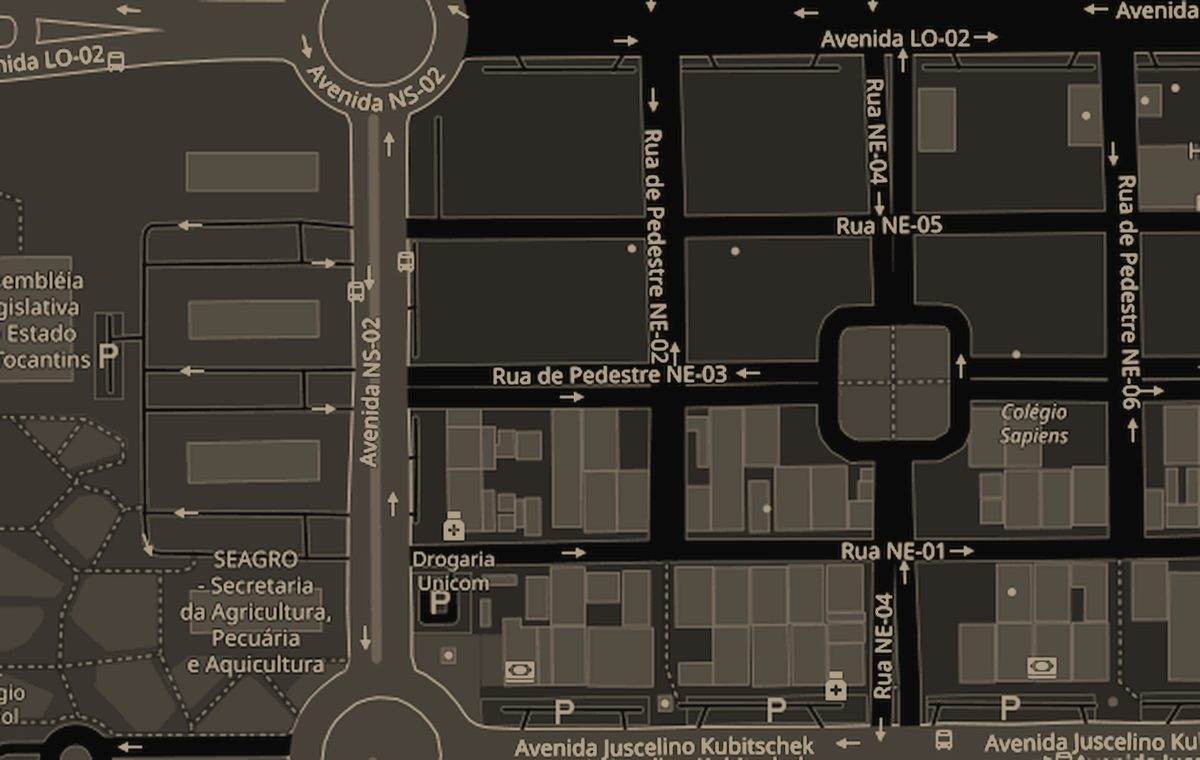
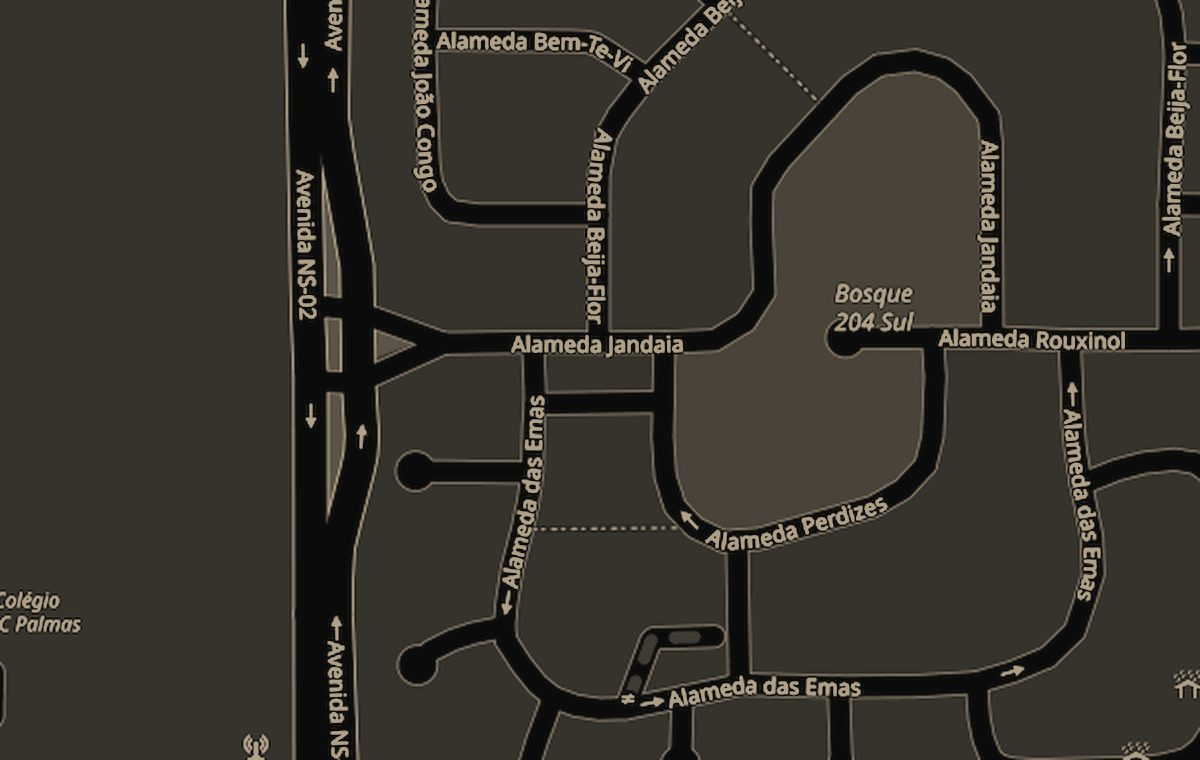
feat(local): endereco novo do Stewer (Conciso, 204 Sul), mapa redesenhado e numeros atualizados
Claude-Session: https://claude.ai/code/session_01SHfwDAUNqnuQJQhvSaj3Sw

diff --git a/src/components/atelie/MapaDoAtelie.tsx b/src/components/atelie/MapaDoAtelie.tsx
@@ -1,5 +1,5 @@
 /**
- * Onde o Stewer atende: o mapa da Boss House nas cores do app, com o S da marca marcando
+ * Onde o Stewer atende: o mapa do studio nas cores do app, com o S da marca marcando
  * o endereco e um pulso discreto em volta (uma unica animacao, que para para quem pede
  * menos movimento). Tocar no mapa abre o app de mapas do aparelho com a rota.
  *
@@ -87,7 +87,7 @@ export function MapaDoAtelie() {
             style={StyleSheet.absoluteFill}
             contentFit="cover"
             transition={250}
-            accessibilityLabel="Mapa das ruas em volta da Boss House, no Plano Diretor Norte"
+            accessibilityLabel={`Mapa das ruas em volta do ${LOCAL.nome}, na 204 Sul`}
           />
           {/* escurece as bordas para o mapa assentar no fundo da tela */}
           <LinearGradient
@@ -112,7 +112,7 @@ export function MapaDoAtelie() {
           />
           <Pino />
           <View className="absolute left-3 top-3 rounded-[3px] bg-fundo/80 px-3 py-[6px]">
-            <Text className="font-sans-medium text-ui-xs text-texto">Palmas, Tocantins</Text>
+            <Text className="font-sans-medium text-ui-xs text-texto">{LOCAL.regiao}</Text>
           </View>
           <Text
             className="absolute bottom-2 right-3 rounded-[2px] bg-fundo/80 px-[6px] py-[2px] font-sans text-texto-2"
@@ -125,6 +125,7 @@ export function MapaDoAtelie() {
 
       <View className="mt-6 gap-1">
         <Text className="font-display text-ds-24 text-texto">{LOCAL.nome}</Text>
+        <Text className="font-sans-medium text-ui-sm text-latao">{LOCAL.descricao}</Text>
         <Paragrafo>{LOCAL.endereco}</Paragrafo>
         <Paragrafo className="text-texto-3">{LOCAL.horario}</Paragrafo>
       </View>

diff --git a/src/content/atelie.ts b/src/content/atelie.ts
@@ -33,7 +33,7 @@ export const FOTOS = {
 export const PORTFOLIO: FotoAtelie[] = [
   {
     fonte: require('../../assets/images/atelie/corte-4.jpg'),
-    descricao: 'Stewer finalizando um corte na Boss House',
+    descricao: 'Stewer finalizando um corte',
     proporcao: 909 / 1200,
   },
   {
@@ -76,18 +76,27 @@ export const SOBRE = {
   ],
   citacao: 'Sua aparência é o primeiro discurso que você faz, antes mesmo de abrir a boca.',
   numeros: [
-    { valor: '800+', legenda: 'clientes por ano' },
-    { valor: '10+', legenda: 'anos de cadeira' },
+    { valor: '1.000+', legenda: 'clientes por ano' },
+    { valor: '10+', legenda: 'anos de experiência' },
   ],
 };
 
 export const LEMA = 'Masculinidade com propósito';
 
+/**
+ * Onde o Stewer atende hoje: o Conciso, o studio dele na 204 Sul. Mesmos dados que ele
+ * mantem no painel do site (stewergabriel.com/admin, "Contatos e mapa"); mudando la,
+ * mude aqui e rode `python3 scripts/make-map.py` para redesenhar o mapa.
+ */
 export const LOCAL = {
-  nome: 'Boss House Barbearia',
-  endereco: 'Q. ACNE 1, Rua NE 3, nº 15, Plano Diretor Norte, Palmas',
+  nome: 'Conciso',
+  descricao: 'Studio de imagem masculina',
+  endereco: '204 Sul, Alameda 10, QI 5, Sala 05, Galeria Encore 21, Palmas',
+  regiao: 'Plano Diretor Sul, Palmas',
   horario: 'Segunda a sábado, das 9h às 19h',
-  mapa: 'https://www.google.com/maps/search/?api=1&query=-10.18256053,-48.32910908',
+  latitude: -10.195029,
+  longitude: -48.328703,
+  mapa: 'https://www.google.com/maps/search/?api=1&query=-10.195029,-48.328703',
   whatsapp: 'https://wa.me/5563985116783?text=Ol%C3%A1%20Stewer%2C%20vim%20pelo%20app.',
   instagram: 'https://instagram.com/stewer.gabriel',
 };

diff --git a/e2e/jornadas/vitrine.spec.ts b/e2e/jornadas/vitrine.spec.ts
@@ -7,7 +7,7 @@ import { expect, test } from '@playwright/test';
 
 import { ehCelular, entrar, naTela, novoCliente, registrar, semRolagemLateral } from '../apoio';
 
-test('inicio conta quem e o Stewer e leva ate a Boss House', async ({ page, request }, info) => {
+test('inicio conta quem e o Stewer e leva ate o studio dele', async ({ page, request }, info) => {
   const cliente = await novoCliente(request, 'Vitrine');
   await entrar(page, cliente.email, cliente.senha);
 
@@ -15,10 +15,10 @@ test('inicio conta quem e o Stewer e leva ate a Boss House', async ({ page, requ
   await expect(naTela(page, 'Quem é Stewer')).toBeVisible();
   await expect(naTela(page, 'O trabalho')).toBeVisible();
 
-  const mapa = page.getByRole('link', { name: /Abrir Boss House Barbearia no mapa/ });
+  const mapa = page.getByRole('link', { name: /Abrir Conciso no mapa/ });
   await mapa.scrollIntoViewIfNeeded();
   await expect(mapa).toBeVisible();
-  await expect(naTela(page, /Q\. ACNE 1/)).toBeVisible();
+  await expect(naTela(page, /204 Sul, Alameda 10/)).toBeVisible();
   await semRolagemLateral(page);
   await registrar(page, info, '01 onde atende');
 });

diff --git a/e2e/jornadas/cliente-agenda.spec.ts b/e2e/jornadas/cliente-agenda.spec.ts
@@ -84,7 +84,7 @@ test('cliente cria a conta, marca, remarca e cancela um horario', async ({ page 
   await test.step('passo 4: revisa o ticket e confirma', async () => {
     await expect(naTela(page, 'Tudo certo?')).toBeVisible();
     await expect(naTela(page, new RegExp(`^${hora} às`))).toBeVisible();
-    await expect(naTela(page, 'Boss House Barbearia')).toBeVisible();
+    await expect(naTela(page, 'Conciso')).toBeVisible();
     await registrar(page, info, '07 confirmar');
     // se outra pessoa (outra jornada em paralelo) levou o horario, o app avisa e a
     // pessoa volta para escolher outro: e exatamente o caminho que testamos aqui

diff --git a/app/(auth)/_moldura.tsx b/app/(auth)/_moldura.tsx
@@ -27,7 +27,7 @@ import { PORTFOLIO, SOBRE } from '@/content/atelie';
 import { useLayoutLargo } from '@/lib/responsivo';
 import { useTema } from '@/theme/theme-context';
 
-// O Stewer cortando na Boss House: a foto que diz o que o app agenda.
+// O Stewer cortando: a foto que diz o que o app agenda.
 const FOTO = PORTFOLIO[1]!;
 
 function Marca() {

diff --git a/scripts/make-map.py b/scripts/make-map.py
@@ -1,5 +1,5 @@
 """
-Gera o mapa da Boss House Barbearia nas cores do app (claro e escuro).
+Gera o mapa do studio do Stewer (Conciso, 204 Sul) nas cores do app (claro e escuro).
 
 Baixa poucos tiles do OpenStreetMap UMA vez, monta a regiao em volta do endereco, tira
 a cor e repinta em duas tintas da paleta (carvao/areia no escuro, tinta/papel no
@@ -18,7 +18,7 @@ from pathlib import Path
 
 from PIL import Image, ImageOps
 
-LAT, LON = -10.18256053, -48.32910908  # Q. ACNE 1, Rua NE 3, 15 -- Palmas, TO
+LAT, LON = -10.195029, -48.328703  # Conciso: 204 Sul, Alameda 10, Galeria Encore 21 -- Palmas, TO
 ZOOM = 17
 LARGURA, ALTURA = 1200, 760  # 2x da maior largura em que o mapa aparece
 TILE = 256
